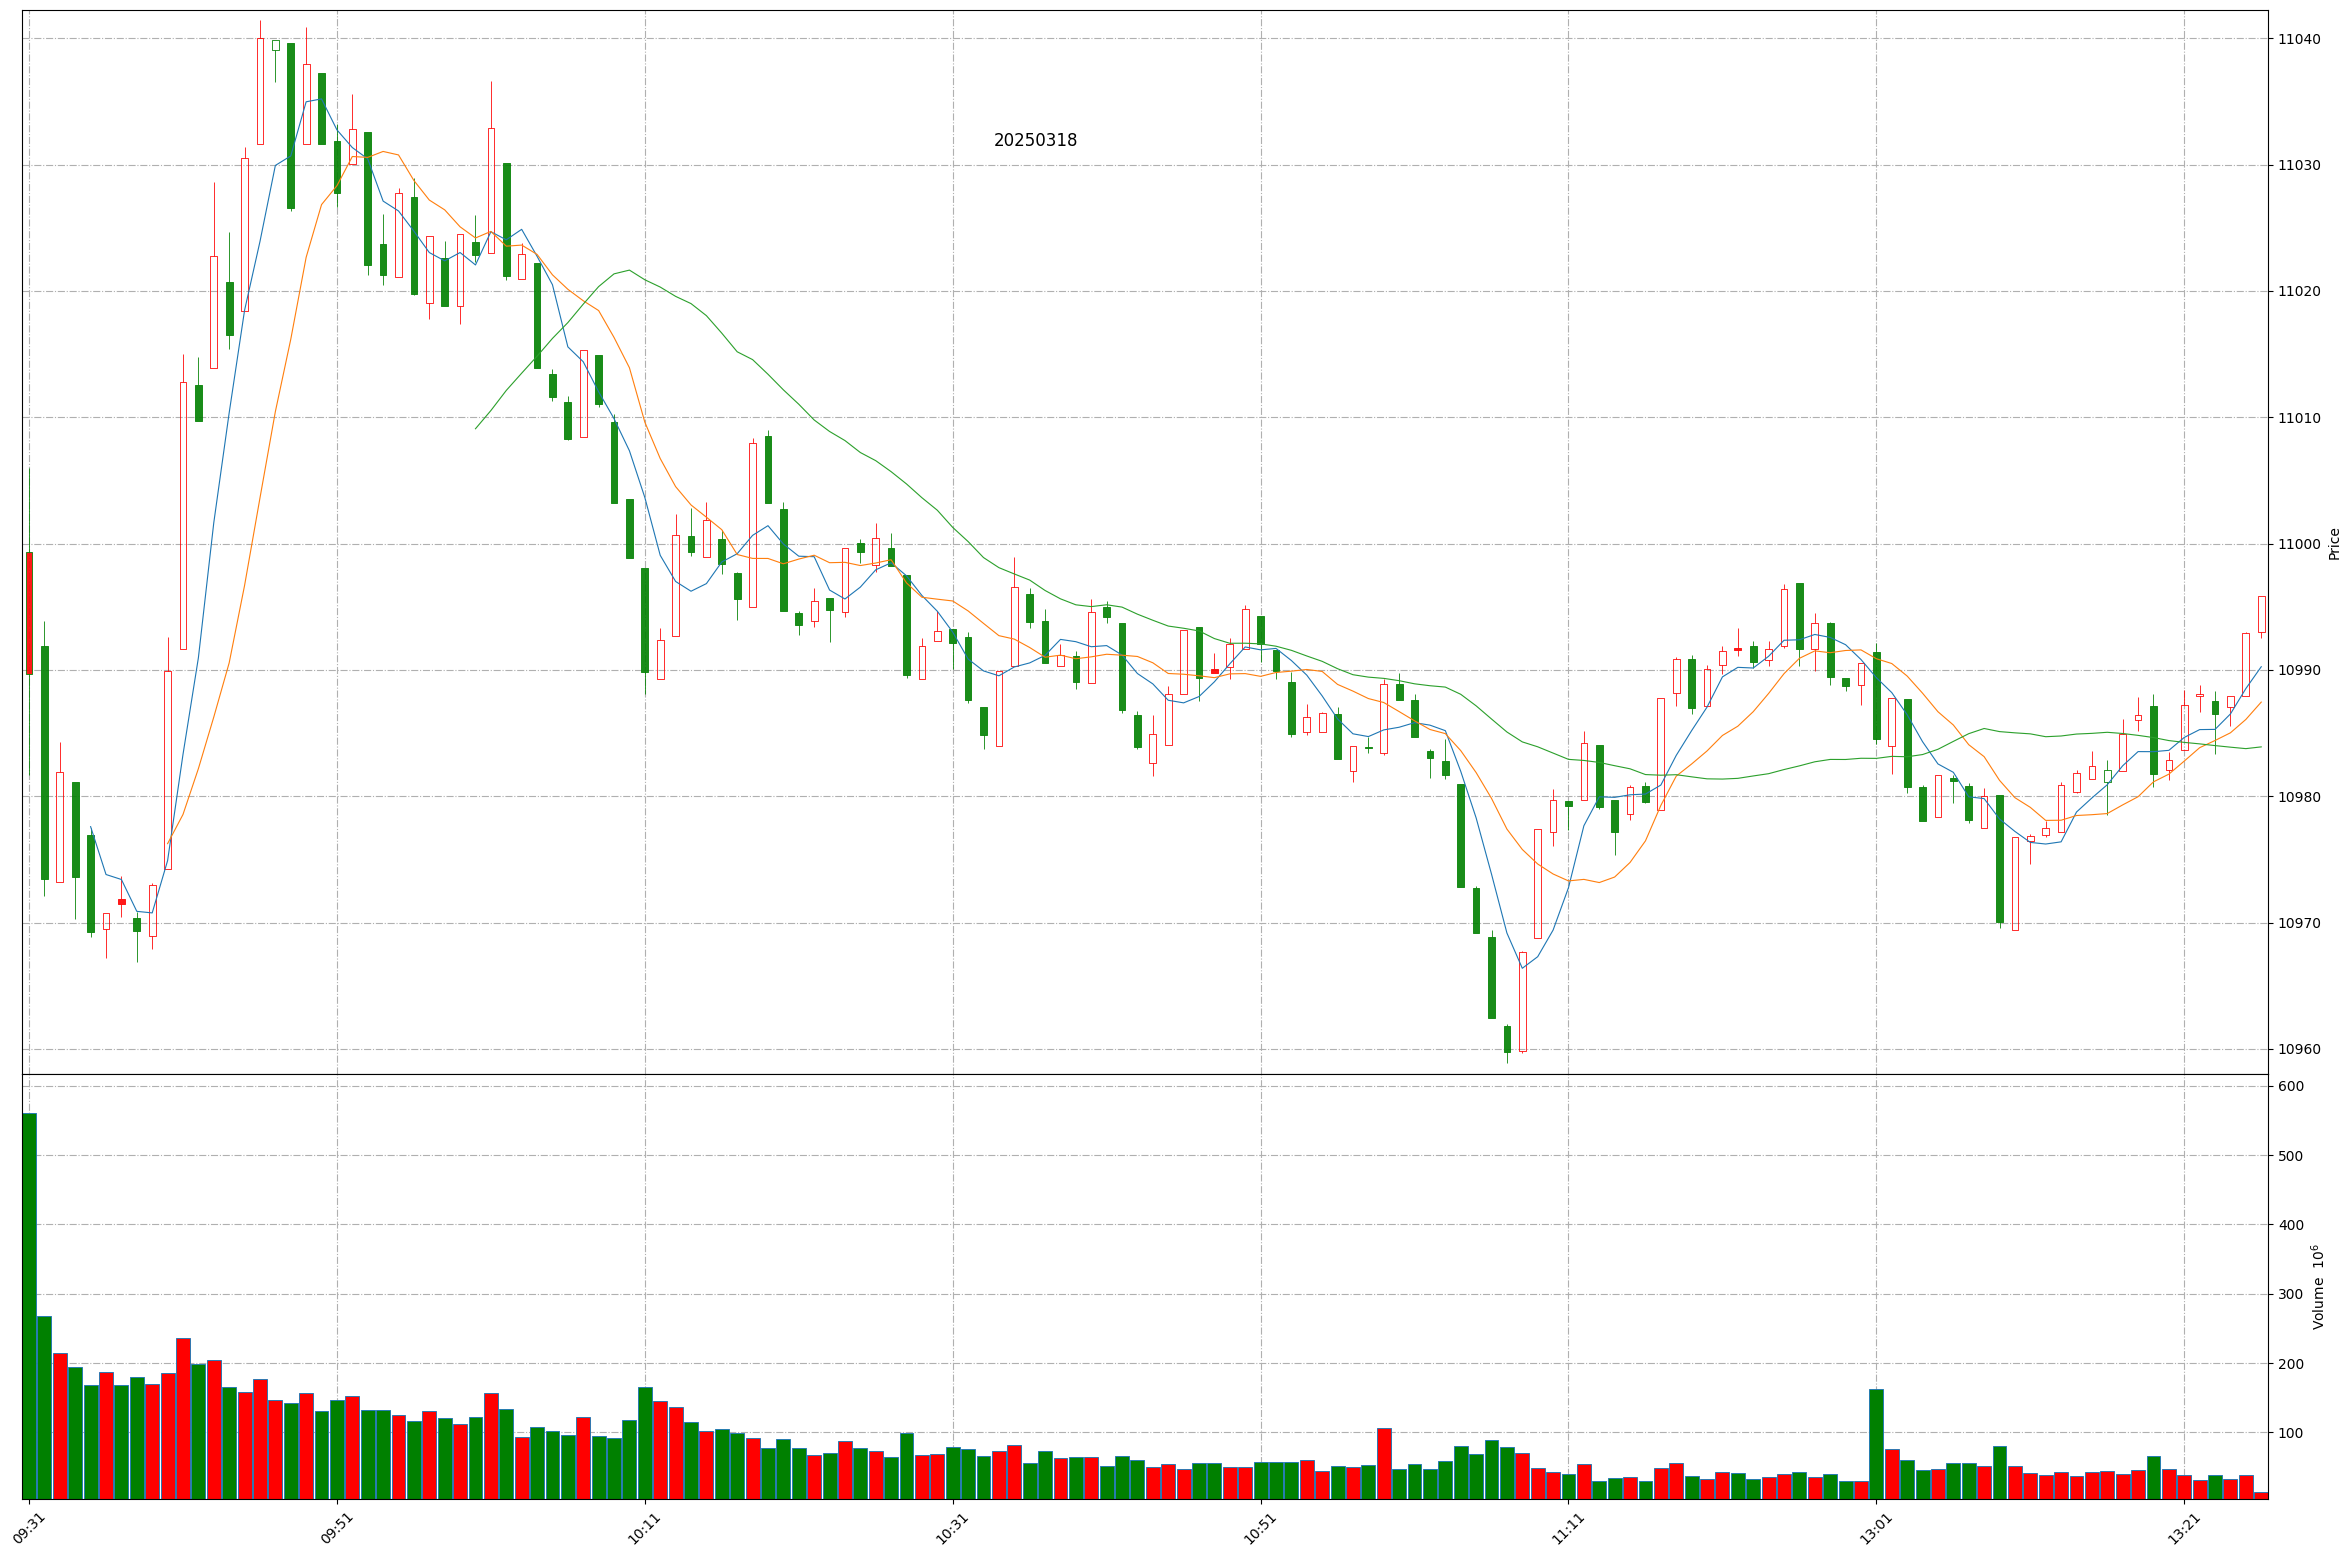
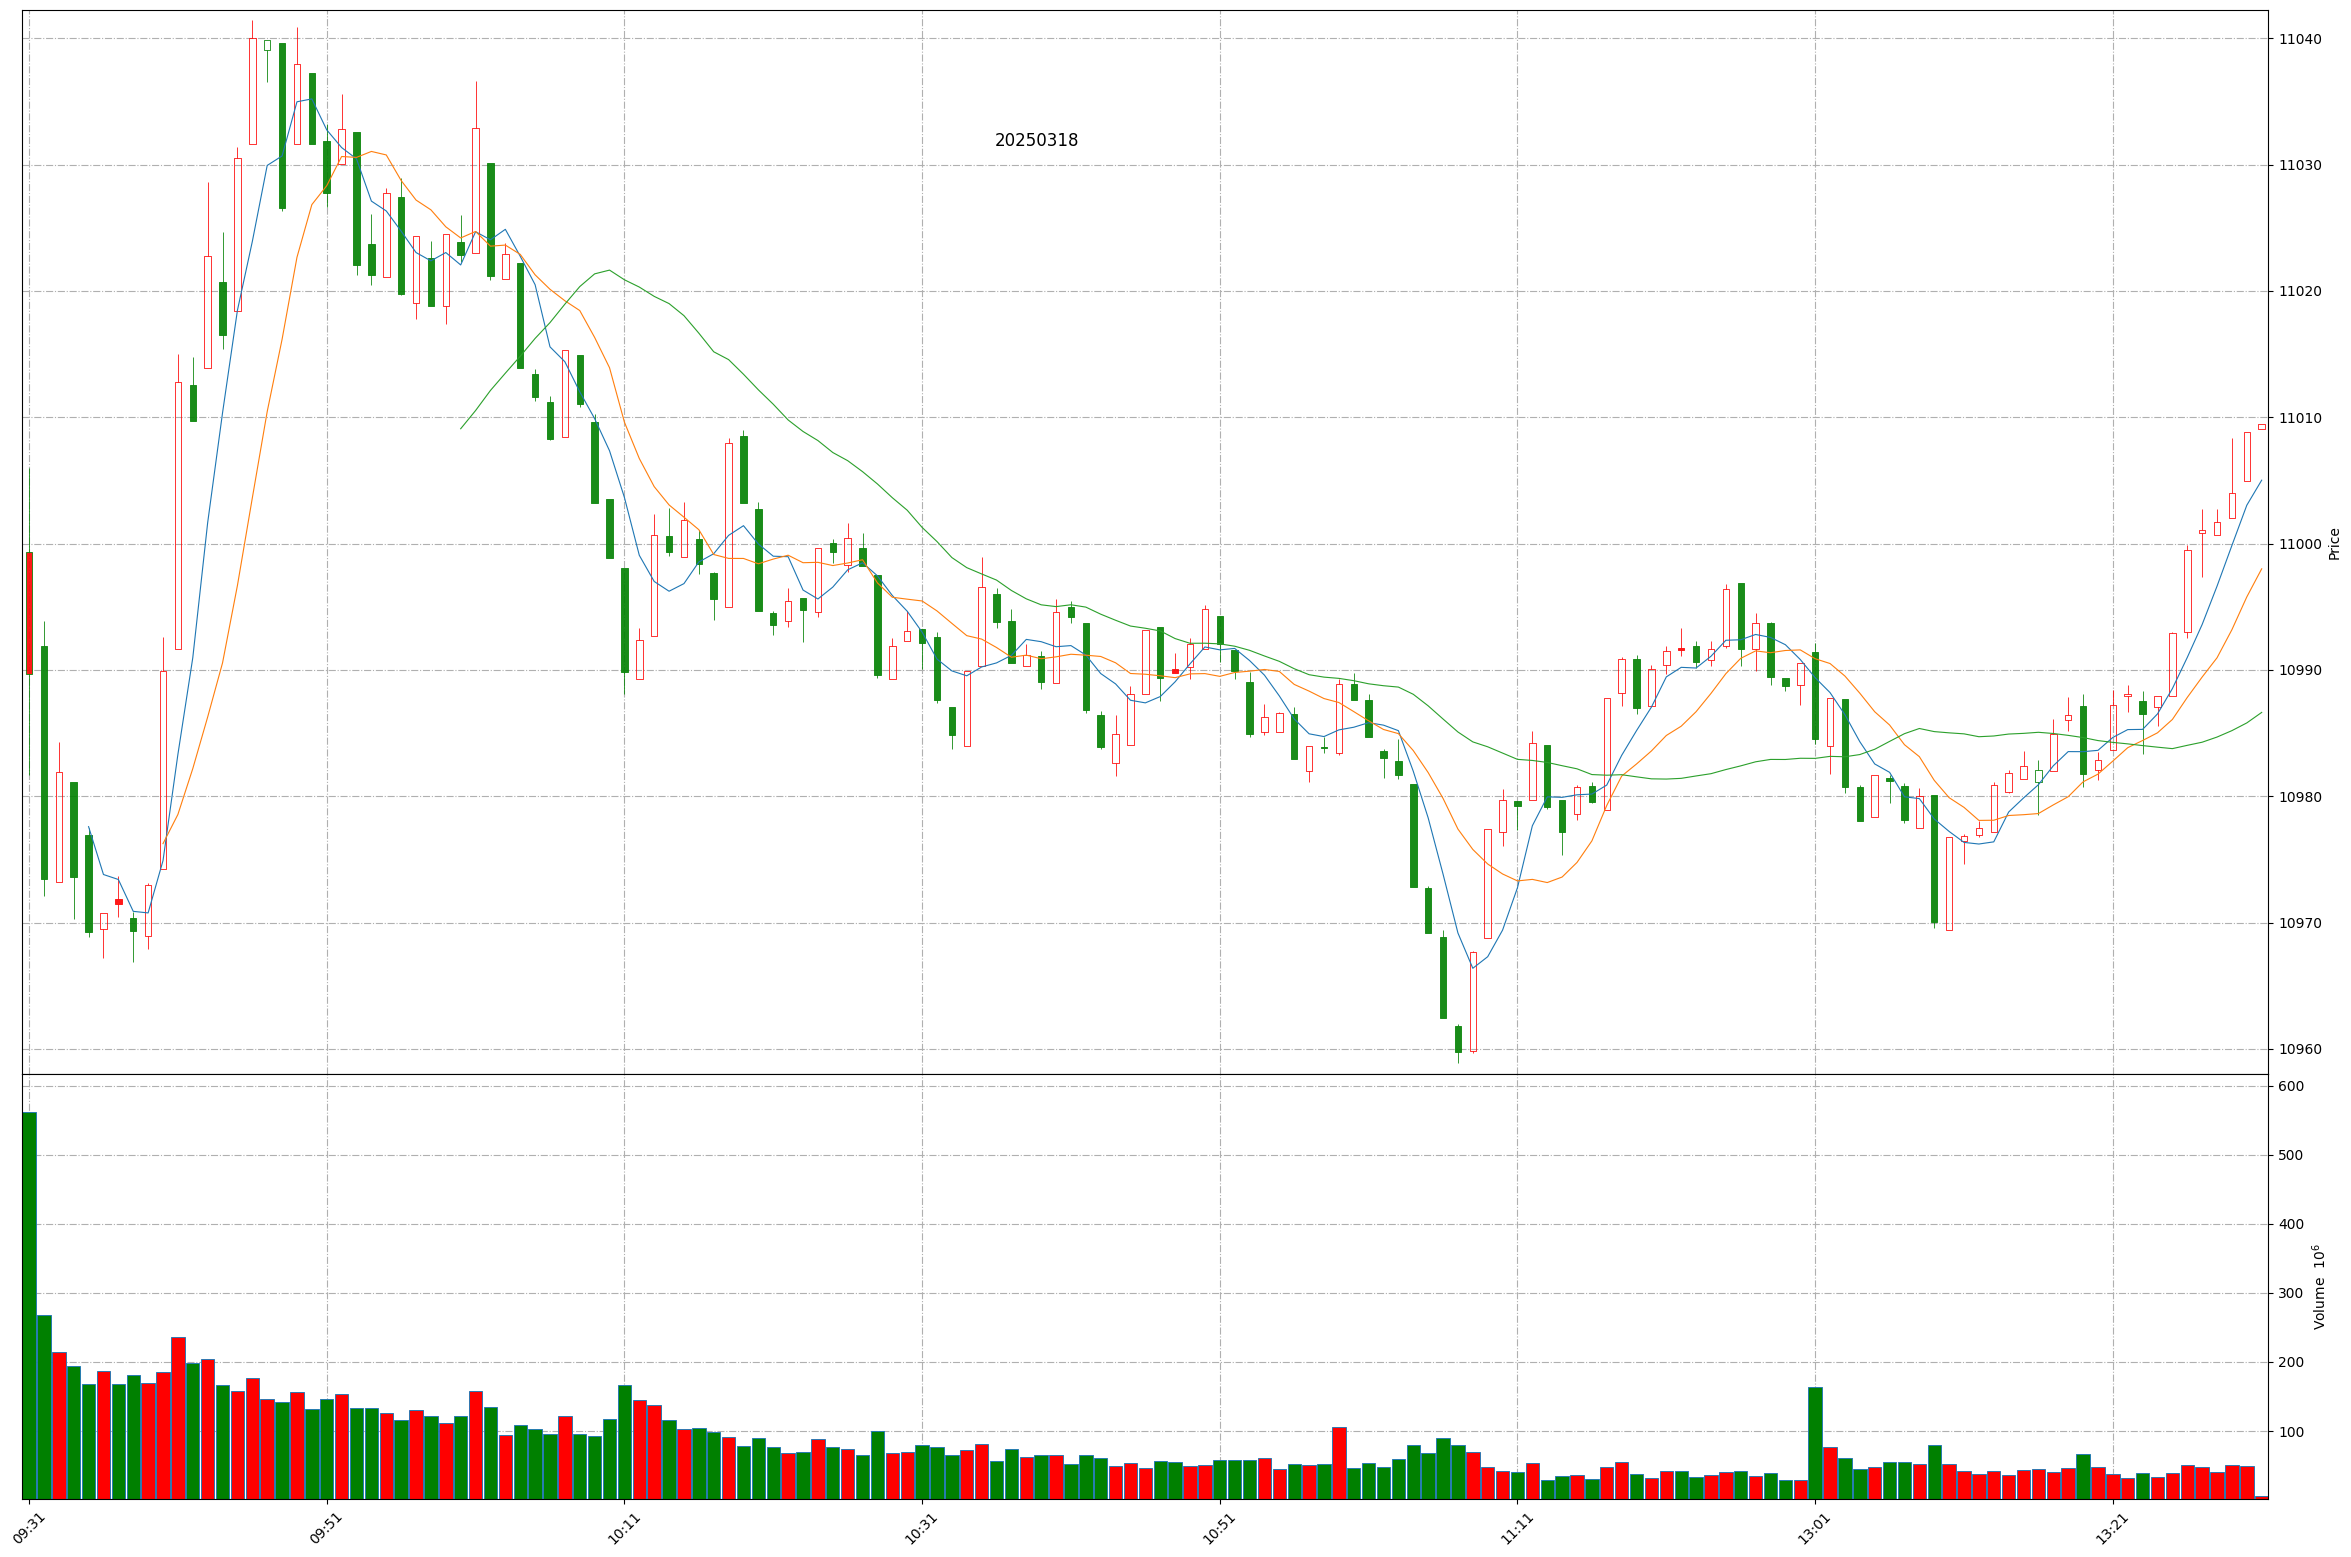
Github action update at 2025-03-18 13:30:21.

diff --git a/README.md b/README.md
@@ -1,11 +1,11 @@
 
 # Daily-A-share-market-quotes 每日 A 股指数（5min 更新）- 20250318
 
-### 上证指数 20250318 13:25
+### 上证指数 20250318 13:30
 ![](./fig/2025/3/20250318-sh000001.png)
 
-### 深证成指 20250318 13:25
+### 深证成指 20250318 13:30
 ![](./fig/2025/3/20250318-sz399001.png)
 
-### 北证50 20250318 13:25
+### 北证50 20250318 13:30
 ![](./fig/2025/3/20250318-bj899050.png)
